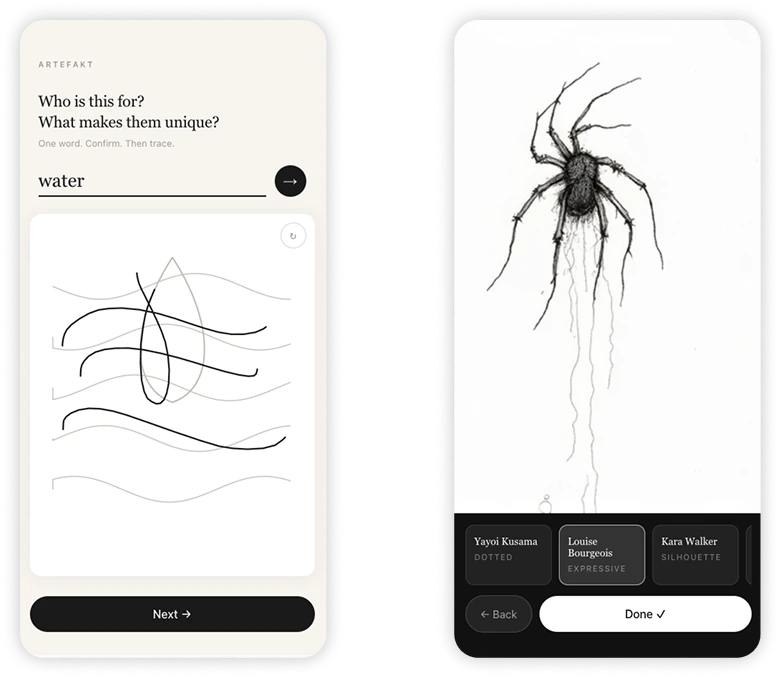
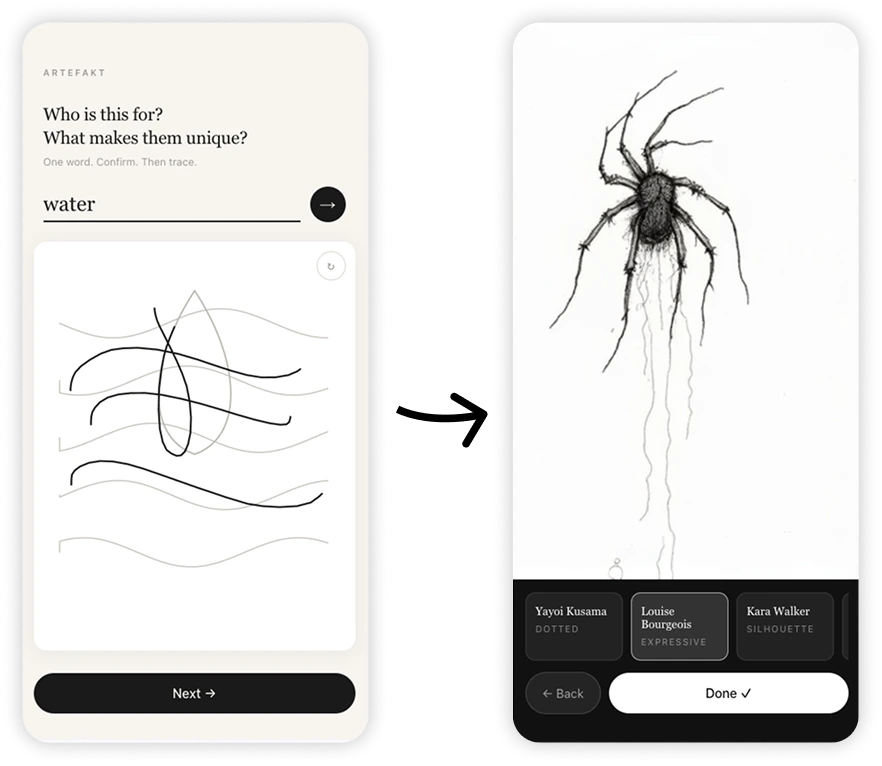
content check

diff --git a/src/content/case-studies/artifakt.js b/src/content/case-studies/artifakt.js
@@ -470,19 +470,41 @@ export default {
       // the model reaches for the icon, and until now the reader had to take
       // that on trust.
       //
-      // Converted from Flore's PNG export to WebP, 2026-08-31, so it matches
-      // every other asset on the page: lossy q90, alpha preserved (the phone
-      // corners are transparent and sit on the stage's own fill). 231 KB -> 73.
+      // RE-EXPORTED later the same day, and the change is the ARROW between the
+      // two screens. It was two panels sitting next to each other, which left
+      // the reader to infer the causality; the arrow states it, which is what
+      // makes this a before/after rather than a pair. Same composition
+      // otherwise, drawn slightly larger (882x766, was 781x678).
+      //
+      // Converted from Flore's PNG export to WebP, so it matches every other
+      // asset on the page: lossy q90, alpha preserved (the phone corners are
+      // transparent and sit on the stage's own fill). 279 KB -> 87.
       media: {
         layout: 'split',
-        // Figma draws the pair at 370.3 inside a 645.5 stage (node 5063:2885),
-        // so the surround is composition rather than margin — the same
-        // absolute-width convention `against-the-defaults` follows below.
-        maxWidth: 370,
+        // NO WIDTH CAP — Flore, 2026-08-31, asked for this one bigger, so it
+        // fills its stage (the 572 split column less MediaStage's 24 of padding
+        // = 524) instead of stopping at a drawn width.
+        //
+        // A DELIBERATE EXCEPTION to the convention the rest of this page
+        // follows, and worth saying so plainly: every other asset here is
+        // capped at its absolute Figma width, and `against-the-defaults` below
+        // was uncapped once and put back (Flore, 2026-08-25: too big in code).
+        // Don't "restore" 370 as a consistency fix.
+        //
+        // The reason the two go opposite ways is what is inside them. The
+        // defaults grid is artwork, and its Figma surround is composition. This
+        // one is two phone SCREENSHOTS, and the screens carry UI text — at 370
+        // each phone was ~150px and every word in it was mush. At 524 they are
+        // ~210 and the headline resolves, which is the difference between
+        // evidence and a picture of evidence.
+        //
+        // `MEDIA_MAX_H` (88svh) still applies underneath and is what stops this
+        // on a very short window; it does not bite at any normal viewport,
+        // where the column is the smaller of the two.
         src: `${M}/the-reveal.webp`,
-        label: '[ the-reveal.webp — 781x678 trace in, spider out ]',
-        placeholderAspect: '781 / 678',
-        alt: 'Two Artifakt screens side by side: on the left the trace screen with the word “water” and a loose hand-drawn line, on the right the reveal showing a Louise Bourgeois spider in which none of the traced line survives',
+        label: '[ the-reveal.webp — 882x766 trace in, spider out ]',
+        placeholderAspect: '882 / 766',
+        alt: 'Two Artifakt screens with an arrow between them: on the left the trace screen with the word “water” and a loose hand-drawn line, on the right the reveal showing a Louise Bourgeois spider in which none of the traced line survives',
         caption: 'Traced line not legible. Artists reach for icons, not technique.',
       },
       // TWO EMBEDS, NOT YET BUILT. Figma draws both as empty dashed
@@ -576,29 +598,27 @@ export default {
             },
           },
         ],
-        // FOUR NOTES, NOT THE SOURCE DOCUMENT'S SIX. "Why two passes?" is said
-        // by the prose directly beside this diagram, so repeating it makes the
-        // figure argue with the page; "Scaffold (Screen 1)" belongs to "The
-        // scaffold" section further down, where the reader meets that problem.
-        // The four kept are the ones the prose does not cover.
-        notes: [
-          {
-            title: 'What strength controls',
-            body: 'Strength is how much the model departs from the input image. 0.0 returns the input untouched; 1.0 ignores it entirely. Higher strength means more artistic transformation but looser sketch fidelity.',
-          },
-          {
-            title: 'Why results vary',
-            body: 'Diffusion models start from random noise (the seed), so two identical prompts produce different results every time. That variance compounds across two passes. The regenerate button on the canvas lets users reroll.',
-          },
-          {
-            title: 'Model used',
-            body: 'fal-ai/flux/dev/image-to-image. 28 inference steps, guidance scale 3.5. No LoRA fine-tuning — style is driven entirely through prompting. LoRA is a future option once the artist roster is validated.',
-          },
-          {
-            title: 'Cost',
-            body: 'Two API calls per artist per generation. All five artists are generated in parallel when Screen 2 loads. Regenerating one artist is two fresh calls for that artist only.',
-          },
-        ],
+        // NO NOTES ROW — removed 2026-08-31, Flore: "it's just too much
+        // content." It was a four-card grid under the diagram covering what
+        // strength controls, why results vary, the model settings, and cost.
+        //
+        // The trim it completes: the row was already down from the source
+        // document's six, because "Why two passes?" is said by the prose beside
+        // this diagram and "Scaffold (Screen 1)" belongs to the scaffold
+        // section further down. Cutting the last four is the same judgement one
+        // step on -- this figure's job is to show the pipeline, and the reader
+        // who wants inference steps and per-call cost is a different reader.
+        //
+        // NOTHING IS LOST, which is what makes the cut cheap: all four notes
+        // came out of the prompting-process log, that log still carries the
+        // material (checked -- strength, seed, LoRA, guidance scale and the
+        // regenerate button are all in it), and `link` above already points at
+        // it from this diagram. The detail moved one click away rather than
+        // going.
+        //
+        // PipelineDiagram still renders a `notes` array when given one
+        // (`notes?.length > 0`), so restoring a shorter row is a paste here and
+        // no code change.
       },
     },
 
